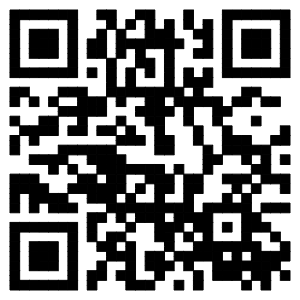
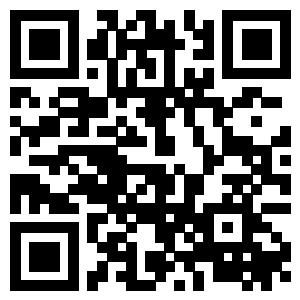
modify qrcode

diff --git a/style/style.css b/style/style.css
@@ -62,7 +62,7 @@ header aside {
 header aside .qrcode {
   width: 100px;
   height: 100px;
-  background-image: url("/qrcode.60b067b3.png");
+  background-image: url("../static/qrcode.png");
   background-size: cover;
 }
 header aside a {
